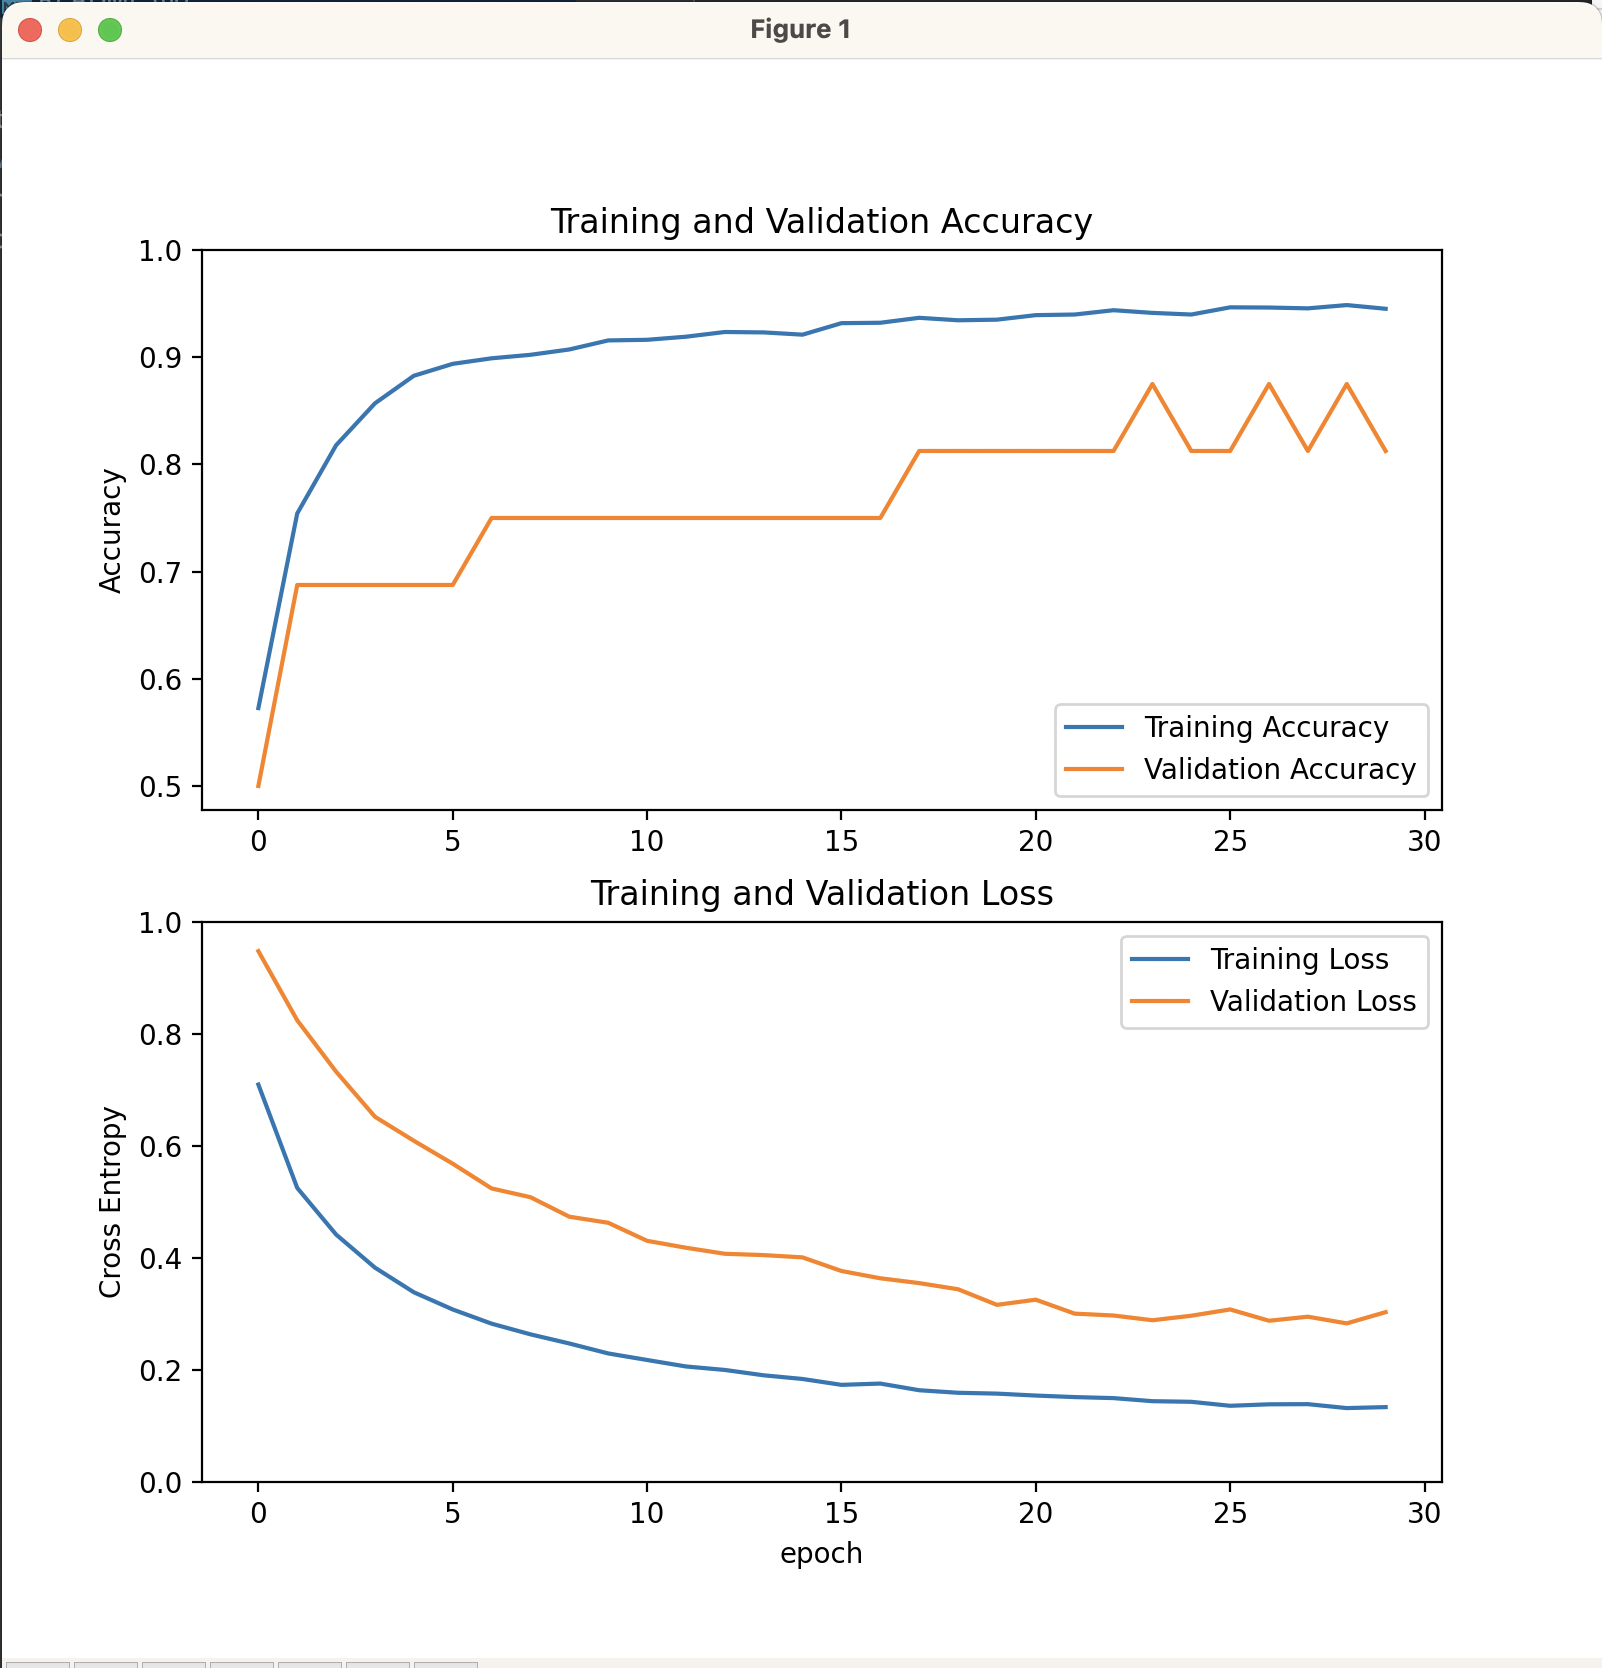
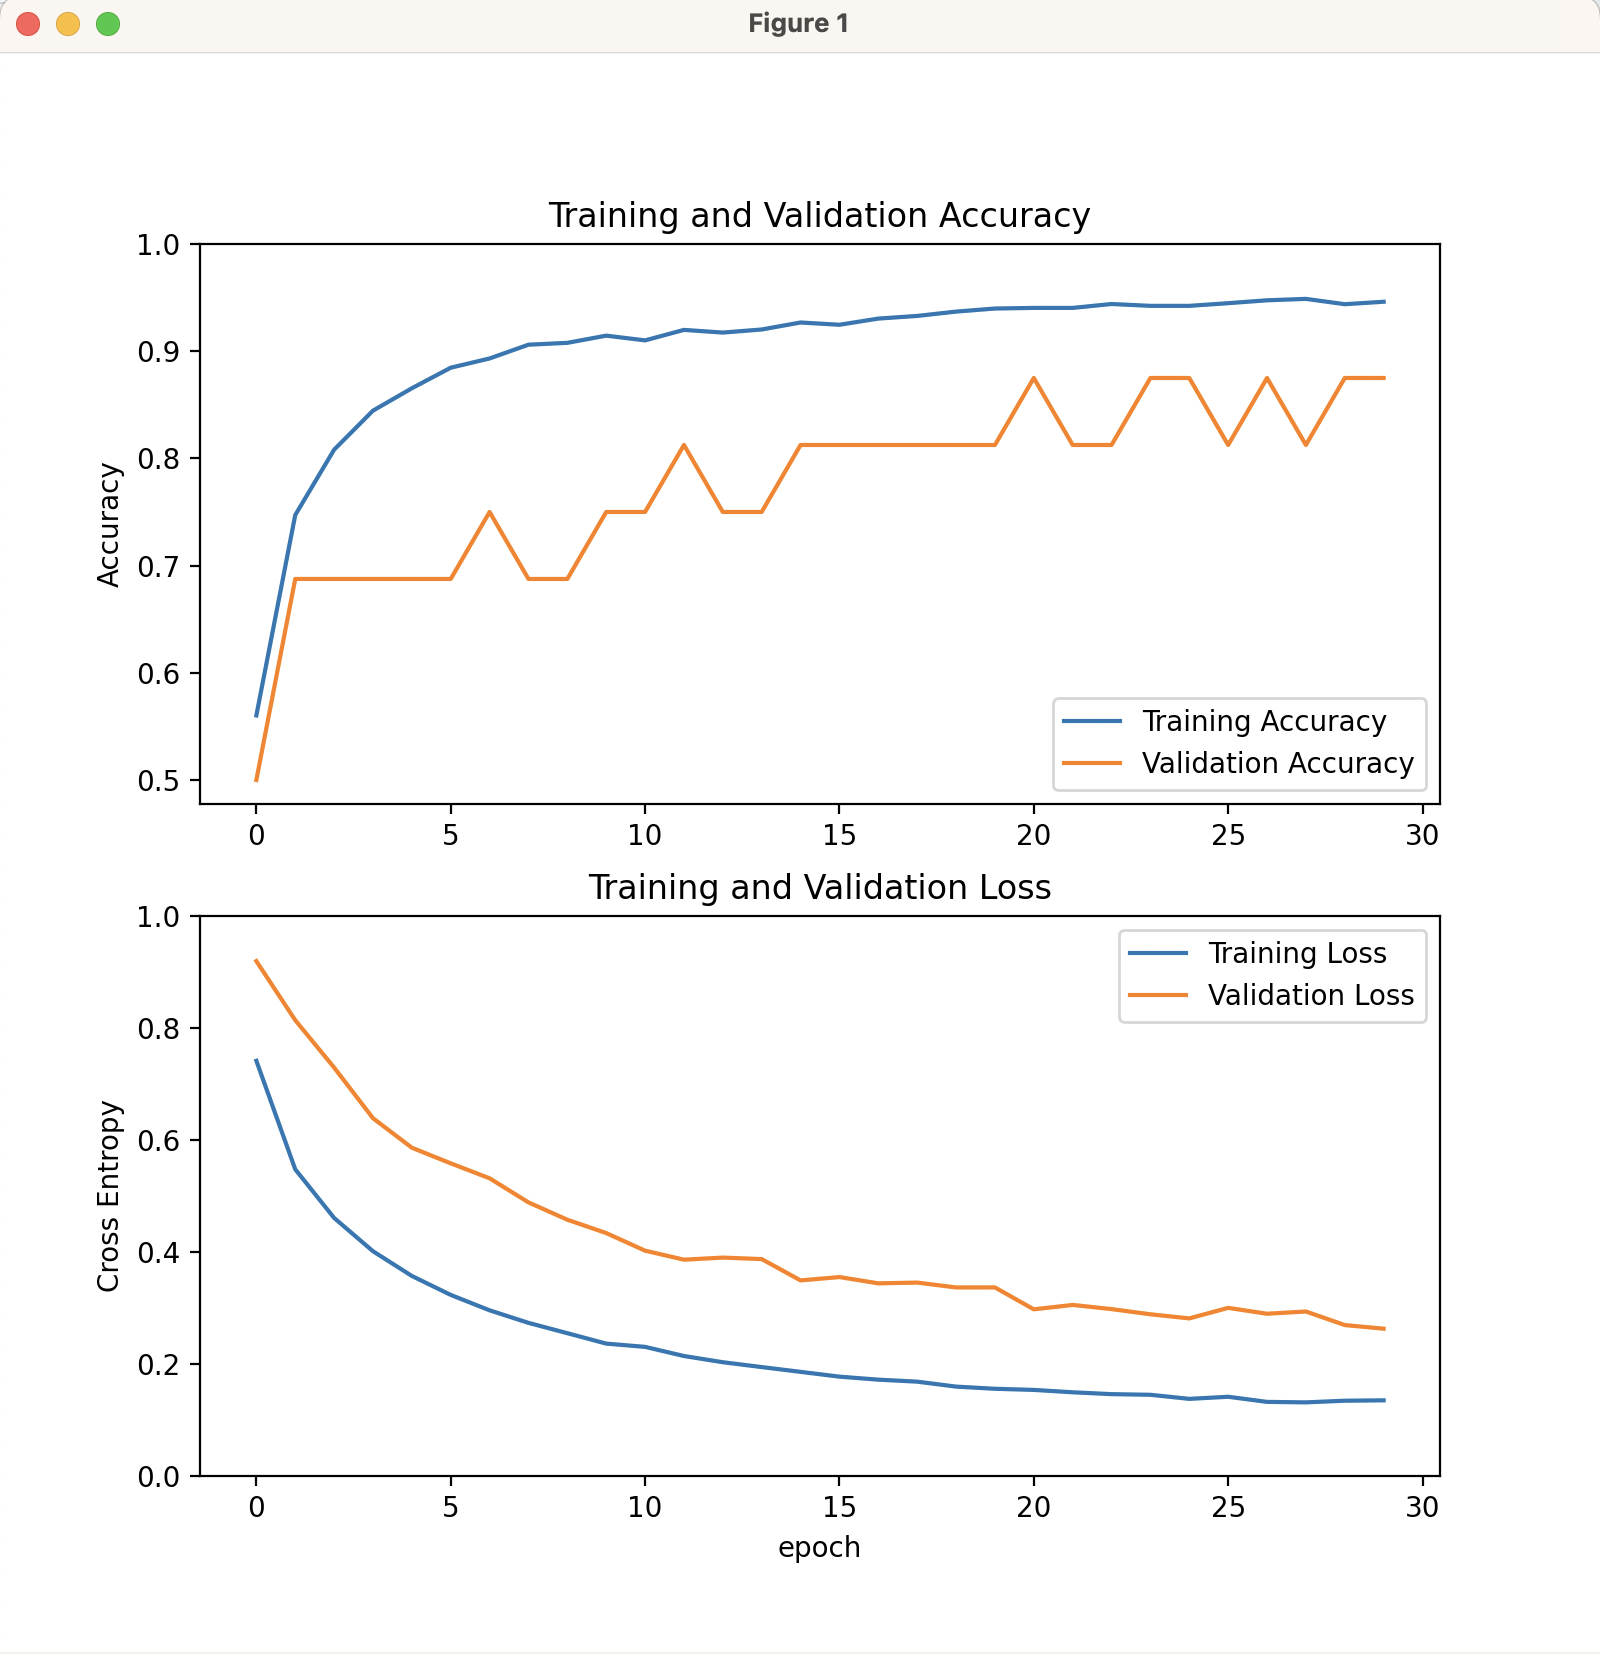
polish

diff --git a/kaggle/pneumonia/pneumonia.py b/kaggle/pneumonia/pneumonia.py
@@ -69,7 +69,8 @@ def build_transfer_learning_model():
     x = tf.keras.layers.GlobalAveragePooling2D()(x)
     x = tf.keras.layers.Dropout(.2)(x)
     outputs = tf.keras.layers.Dense(1)(x)
-    model = tf.keras.Model(inputs, outputs)
+    model = tf.keras.Model(inputs, outputs, name='pneumonia')
+
     model.compile(optimizer=tf.keras.optimizers.Adam(learning_rate=base_learning_rate),
                   loss=tf.keras.losses.BinaryCrossentropy(from_logits=True),
                   metrics=['accuracy'])
@@ -78,36 +79,43 @@ def build_transfer_learning_model():
     return model
 
 
+def train_model(model, train_ds, val_ds):
+    history = model.fit(train_ds, epochs=epochs, validation_data=val_ds)
+    loss, accuracy = model.evaluate(test_ds)
+    print(f'accuracy / loss on the test dataset: {accuracy} / {loss}')
+    return history
+
+
+def plot_accuracy_loss_curves(history):
+    acc = history.history['accuracy']
+    val_acc = history.history['val_accuracy']
+
+    loss = history.history['loss']
+    val_loss = history.history['val_loss']
+
+    plt.figure(figsize=(8, 8))
+    plt.subplot(2, 1, 1)
+    plt.plot(acc, label='Training Accuracy')
+    plt.plot(val_acc, label='Validation Accuracy')
+    plt.legend(loc='lower right')
+    plt.ylabel('Accuracy')
+    plt.ylim([min(plt.ylim()), 1])
+    plt.title('Training and Validation Accuracy')
+
+    plt.subplot(2, 1, 2)
+    plt.plot(loss, label='Training Loss')
+    plt.plot(val_loss, label='Validation Loss')
+    plt.legend(loc='upper right')
+    plt.ylabel('Cross Entropy')
+    plt.ylim([0, 1.0])
+    plt.title('Training and Validation Loss')
+    plt.xlabel('epoch')
+    plt.show()
+
+
 train_ds, val_ds, test_ds = load_images()
 print_train_dataset_details(train_ds)
 train_ds, val_ds, test_ds = use_buffered_prefetching(train_ds, val_ds, test_ds)
 model = build_transfer_learning_model()
-history = model.fit(train_ds, epochs=epochs, validation_data=val_ds)
-
-acc = history.history['accuracy']
-val_acc = history.history['val_accuracy']
-
-loss = history.history['loss']
-val_loss = history.history['val_loss']
-
-plt.figure(figsize=(8, 8))
-plt.subplot(2, 1, 1)
-plt.plot(acc, label='Training Accuracy')
-plt.plot(val_acc, label='Validation Accuracy')
-plt.legend(loc='lower right')
-plt.ylabel('Accuracy')
-plt.ylim([min(plt.ylim()), 1])
-plt.title('Training and Validation Accuracy')
-
-plt.subplot(2, 1, 2)
-plt.plot(loss, label='Training Loss')
-plt.plot(val_loss, label='Validation Loss')
-plt.legend(loc='upper right')
-plt.ylabel('Cross Entropy')
-plt.ylim([0, 1.0])
-plt.title('Training and Validation Loss')
-plt.xlabel('epoch')
-plt.show()
-
-loss, accuracy = model.evaluate(test_ds)
-print(f'accuracy / loss on the test dataset: {accuracy} / {loss}')
+history = train_model(model, train_ds, val_ds)
+plot_accuracy_loss_curves(history)

diff --git a/kaggle/pneumonia/README.md b/kaggle/pneumonia/README.md
@@ -21,12 +21,12 @@ Metal device set to: Apple M1 Ultra
 systemMemory: 128.00 GB
 maxCacheSize: 48.00 GB
 
-2023-03-30 17:35:30.895978: I tensorflow/core/common_runtime/pluggable_device/pluggable_device_factory.cc:305] Could not identify NUMA node of platform GPU ID 0, defaulting to 0. Your kernel may not have been built with NUMA support.
-2023-03-30 17:35:30.896251: I tensorflow/core/common_runtime/pluggable_device/pluggable_device_factory.cc:271] Created TensorFlow device (/job:localhost/replica:0/task:0/device:GPU:0 with 0 MB memory) -> physical PluggableDevice (device: 0, name: METAL, pci bus id: <undefined>)
+2023-03-30 18:17:46.963504: I tensorflow/core/common_runtime/pluggable_device/pluggable_device_factory.cc:305] Could not identify NUMA node of platform GPU ID 0, defaulting to 0. Your kernel may not have been built with NUMA support.
+2023-03-30 18:17:46.963861: I tensorflow/core/common_runtime/pluggable_device/pluggable_device_factory.cc:271] Created TensorFlow device (/job:localhost/replica:0/task:0/device:GPU:0 with 0 MB memory) -> physical PluggableDevice (device: 0, name: METAL, pci bus id: <undefined>)
 Found 16 files belonging to 2 classes.
 Found 624 files belonging to 2 classes.
 in the training set 2 class names to classify the images for: ['NORMAL', 'PNEUMONIA']
-2023-03-30 17:35:31.037905: W tensorflow/core/platform/profile_utils/cpu_utils.cc:128] Failed to get CPU frequency: 0 Hz
+2023-03-30 18:17:47.062342: W tensorflow/core/platform/profile_utils/cpu_utils.cc:128] Failed to get CPU frequency: 0 Hz
 image batch shape: (32, 224, 224, 3)
 image label shape: (32,)
 Model: "mobilenetv2_1.00_224"
@@ -432,7 +432,7 @@ Total params: 2,257,984
 Trainable params: 0
 Non-trainable params: 2,257,984
 __________________________________________________________________________________________________
-Model: "model"
+Model: "pneumonia"
 _________________________________________________________________
  Layer (type)                Output Shape              Param #   
 =================================================================
@@ -462,68 +462,69 @@ Trainable params: 1,281
 Non-trainable params: 2,257,984
 _________________________________________________________________
 Epoch 1/30
-2023-03-30 17:35:33.148115: I tensorflow/core/grappler/optimizers/custom_graph_optimizer_registry.cc:113] Plugin optimizer for device_type GPU is enabled.
-163/163 [==============================] - ETA: 0s - loss: 0.7097 - accuracy: 0.57272023-03-30 17:35:54.773311: I tensorflow/core/grappler/optimizers/custom_graph_optimizer_registry.cc:113] Plugin optimizer for device_type GPU is enabled.
-163/163 [==============================] - 23s 131ms/step - loss: 0.7097 - accuracy: 0.5727 - val_loss: 0.9480 - val_accuracy: 0.5000
+2023-03-30 18:17:49.263034: I tensorflow/core/grappler/optimizers/custom_graph_optimizer_registry.cc:113] Plugin optimizer for device_type GPU is enabled.
+163/163 [==============================] - ETA: 0s - loss: 0.7414 - accuracy: 0.56022023-03-30 18:18:10.218613: I tensorflow/core/grappler/optimizers/custom_graph_optimizer_registry.cc:113] Plugin optimizer for device_type GPU is enabled.
+163/163 [==============================] - 22s 127ms/step - loss: 0.7414 - accuracy: 0.5602 - val_loss: 0.9194 - val_accuracy: 0.5000
 Epoch 2/30
-163/163 [==============================] - 21s 131ms/step - loss: 0.5251 - accuracy: 0.7542 - val_loss: 0.8245 - val_accuracy: 0.6875
+163/163 [==============================] - 20s 125ms/step - loss: 0.5477 - accuracy: 0.7471 - val_loss: 0.8140 - val_accuracy: 0.6875
 Epoch 3/30
-163/163 [==============================] - 21s 131ms/step - loss: 0.4419 - accuracy: 0.8179 - val_loss: 0.7328 - val_accuracy: 0.6875
+163/163 [==============================] - 21s 128ms/step - loss: 0.4608 - accuracy: 0.8081 - val_loss: 0.7294 - val_accuracy: 0.6875
 Epoch 4/30
-163/163 [==============================] - 22s 134ms/step - loss: 0.3828 - accuracy: 0.8570 - val_loss: 0.6522 - val_accuracy: 0.6875
+163/163 [==============================] - 21s 128ms/step - loss: 0.4014 - accuracy: 0.8445 - val_loss: 0.6389 - val_accuracy: 0.6875
 Epoch 5/30
-163/163 [==============================] - 22s 135ms/step - loss: 0.3388 - accuracy: 0.8827 - val_loss: 0.6093 - val_accuracy: 0.6875
+163/163 [==============================] - 21s 127ms/step - loss: 0.3572 - accuracy: 0.8654 - val_loss: 0.5862 - val_accuracy: 0.6875
 Epoch 6/30
-163/163 [==============================] - 21s 132ms/step - loss: 0.3081 - accuracy: 0.8938 - val_loss: 0.5684 - val_accuracy: 0.6875
+163/163 [==============================] - 21s 129ms/step - loss: 0.3234 - accuracy: 0.8846 - val_loss: 0.5583 - val_accuracy: 0.6875
 Epoch 7/30
-163/163 [==============================] - 23s 141ms/step - loss: 0.2828 - accuracy: 0.8990 - val_loss: 0.5242 - val_accuracy: 0.7500
+163/163 [==============================] - 20s 125ms/step - loss: 0.2959 - accuracy: 0.8932 - val_loss: 0.5316 - val_accuracy: 0.7500
 Epoch 8/30
-163/163 [==============================] - 22s 136ms/step - loss: 0.2637 - accuracy: 0.9022 - val_loss: 0.5086 - val_accuracy: 0.7500
+163/163 [==============================] - 21s 127ms/step - loss: 0.2734 - accuracy: 0.9061 - val_loss: 0.4886 - val_accuracy: 0.6875
 Epoch 9/30
-163/163 [==============================] - 22s 136ms/step - loss: 0.2473 - accuracy: 0.9072 - val_loss: 0.4737 - val_accuracy: 0.7500
+163/163 [==============================] - 21s 126ms/step - loss: 0.2550 - accuracy: 0.9078 - val_loss: 0.4577 - val_accuracy: 0.6875
 Epoch 10/30
-163/163 [==============================] - 23s 139ms/step - loss: 0.2296 - accuracy: 0.9156 - val_loss: 0.4629 - val_accuracy: 0.7500
+163/163 [==============================] - 20s 125ms/step - loss: 0.2364 - accuracy: 0.9145 - val_loss: 0.4338 - val_accuracy: 0.7500
 Epoch 11/30
-163/163 [==============================] - 22s 135ms/step - loss: 0.2179 - accuracy: 0.9162 - val_loss: 0.4307 - val_accuracy: 0.7500
+163/163 [==============================] - 21s 128ms/step - loss: 0.2306 - accuracy: 0.9101 - val_loss: 0.4024 - val_accuracy: 0.7500
 Epoch 12/30
-163/163 [==============================] - 22s 137ms/step - loss: 0.2063 - accuracy: 0.9191 - val_loss: 0.4183 - val_accuracy: 0.7500
+163/163 [==============================] - 20s 125ms/step - loss: 0.2143 - accuracy: 0.9199 - val_loss: 0.3863 - val_accuracy: 0.8125
 Epoch 13/30
-163/163 [==============================] - 22s 137ms/step - loss: 0.2001 - accuracy: 0.9235 - val_loss: 0.4075 - val_accuracy: 0.7500
+163/163 [==============================] - 21s 126ms/step - loss: 0.2032 - accuracy: 0.9174 - val_loss: 0.3900 - val_accuracy: 0.7500
 Epoch 14/30
-163/163 [==============================] - 22s 134ms/step - loss: 0.1905 - accuracy: 0.9231 - val_loss: 0.4052 - val_accuracy: 0.7500
+163/163 [==============================] - 21s 127ms/step - loss: 0.1945 - accuracy: 0.9202 - val_loss: 0.3874 - val_accuracy: 0.7500
 Epoch 15/30
-163/163 [==============================] - 22s 136ms/step - loss: 0.1840 - accuracy: 0.9210 - val_loss: 0.4011 - val_accuracy: 0.7500
+163/163 [==============================] - 21s 130ms/step - loss: 0.1860 - accuracy: 0.9268 - val_loss: 0.3493 - val_accuracy: 0.8125
 Epoch 16/30
-163/163 [==============================] - 22s 137ms/step - loss: 0.1735 - accuracy: 0.9317 - val_loss: 0.3768 - val_accuracy: 0.7500
+163/163 [==============================] - 21s 127ms/step - loss: 0.1774 - accuracy: 0.9247 - val_loss: 0.3552 - val_accuracy: 0.8125
 Epoch 17/30
-163/163 [==============================] - 22s 136ms/step - loss: 0.1758 - accuracy: 0.9321 - val_loss: 0.3638 - val_accuracy: 0.7500
+163/163 [==============================] - 21s 126ms/step - loss: 0.1720 - accuracy: 0.9304 - val_loss: 0.3440 - val_accuracy: 0.8125
 Epoch 18/30
-163/163 [==============================] - 22s 138ms/step - loss: 0.1639 - accuracy: 0.9367 - val_loss: 0.3552 - val_accuracy: 0.8125
+163/163 [==============================] - 21s 127ms/step - loss: 0.1685 - accuracy: 0.9329 - val_loss: 0.3454 - val_accuracy: 0.8125
 Epoch 19/30
-163/163 [==============================] - 22s 135ms/step - loss: 0.1593 - accuracy: 0.9344 - val_loss: 0.3442 - val_accuracy: 0.8125
+163/163 [==============================] - 21s 126ms/step - loss: 0.1596 - accuracy: 0.9369 - val_loss: 0.3367 - val_accuracy: 0.8125
 Epoch 20/30
-163/163 [==============================] - 22s 136ms/step - loss: 0.1578 - accuracy: 0.9350 - val_loss: 0.3163 - val_accuracy: 0.8125
+163/163 [==============================] - 20s 124ms/step - loss: 0.1557 - accuracy: 0.9398 - val_loss: 0.3368 - val_accuracy: 0.8125
 Epoch 21/30
-163/163 [==============================] - 22s 136ms/step - loss: 0.1544 - accuracy: 0.9392 - val_loss: 0.3256 - val_accuracy: 0.8125
+163/163 [==============================] - 21s 126ms/step - loss: 0.1537 - accuracy: 0.9404 - val_loss: 0.2976 - val_accuracy: 0.8750
 Epoch 22/30
-163/163 [==============================] - 22s 133ms/step - loss: 0.1516 - accuracy: 0.9398 - val_loss: 0.3006 - val_accuracy: 0.8125
+163/163 [==============================] - 21s 128ms/step - loss: 0.1495 - accuracy: 0.9404 - val_loss: 0.3055 - val_accuracy: 0.8125
 Epoch 23/30
-163/163 [==============================] - 22s 134ms/step - loss: 0.1498 - accuracy: 0.9438 - val_loss: 0.2973 - val_accuracy: 0.8125
+163/163 [==============================] - 21s 126ms/step - loss: 0.1462 - accuracy: 0.9440 - val_loss: 0.2980 - val_accuracy: 0.8125
 Epoch 24/30
-163/163 [==============================] - 22s 134ms/step - loss: 0.1443 - accuracy: 0.9413 - val_loss: 0.2888 - val_accuracy: 0.8750
+163/163 [==============================] - 21s 127ms/step - loss: 0.1450 - accuracy: 0.9423 - val_loss: 0.2888 - val_accuracy: 0.8750
 Epoch 25/30
-163/163 [==============================] - 22s 134ms/step - loss: 0.1432 - accuracy: 0.9398 - val_loss: 0.2969 - val_accuracy: 0.8125
+163/163 [==============================] - 21s 127ms/step - loss: 0.1377 - accuracy: 0.9423 - val_loss: 0.2815 - val_accuracy: 0.8750
 Epoch 26/30
-163/163 [==============================] - 22s 133ms/step - loss: 0.1361 - accuracy: 0.9465 - val_loss: 0.3081 - val_accuracy: 0.8125
+163/163 [==============================] - 20s 125ms/step - loss: 0.1415 - accuracy: 0.9448 - val_loss: 0.3002 - val_accuracy: 0.8125
 Epoch 27/30
-163/163 [==============================] - 22s 135ms/step - loss: 0.1387 - accuracy: 0.9463 - val_loss: 0.2880 - val_accuracy: 0.8750
+163/163 [==============================] - 21s 127ms/step - loss: 0.1323 - accuracy: 0.9475 - val_loss: 0.2897 - val_accuracy: 0.8750
 Epoch 28/30
-163/163 [==============================] - 22s 135ms/step - loss: 0.1390 - accuracy: 0.9456 - val_loss: 0.2952 - val_accuracy: 0.8125
+163/163 [==============================] - 20s 124ms/step - loss: 0.1315 - accuracy: 0.9488 - val_loss: 0.2938 - val_accuracy: 0.8125
 Epoch 29/30
-163/163 [==============================] - 22s 138ms/step - loss: 0.1320 - accuracy: 0.9486 - val_loss: 0.2832 - val_accuracy: 0.8750
+163/163 [==============================] - 20s 124ms/step - loss: 0.1344 - accuracy: 0.9438 - val_loss: 0.2695 - val_accuracy: 0.8750
 Epoch 30/30
-163/163 [==============================] - 22s 135ms/step - loss: 0.1337 - accuracy: 0.9452 - val_loss: 0.3033 - val_accuracy: 0.8125
-accuracy / loss on the test dataset: 0.8157051205635071 / 0.4630528390407562
+163/163 [==============================] - 844s 5s/step - loss: 0.1351 - accuracy: 0.9461 - val_loss: 0.2630 - val_accuracy: 0.8750
+20/20 [==============================] - 1s 25ms/step - loss: 0.4230 - accuracy: 0.8253
+accuracy / loss on the test dataset: 0.8253205418586731 / 0.422993004322052
 ```
 
 The learning curves of the training and validation accuracy / loss looks as following:
